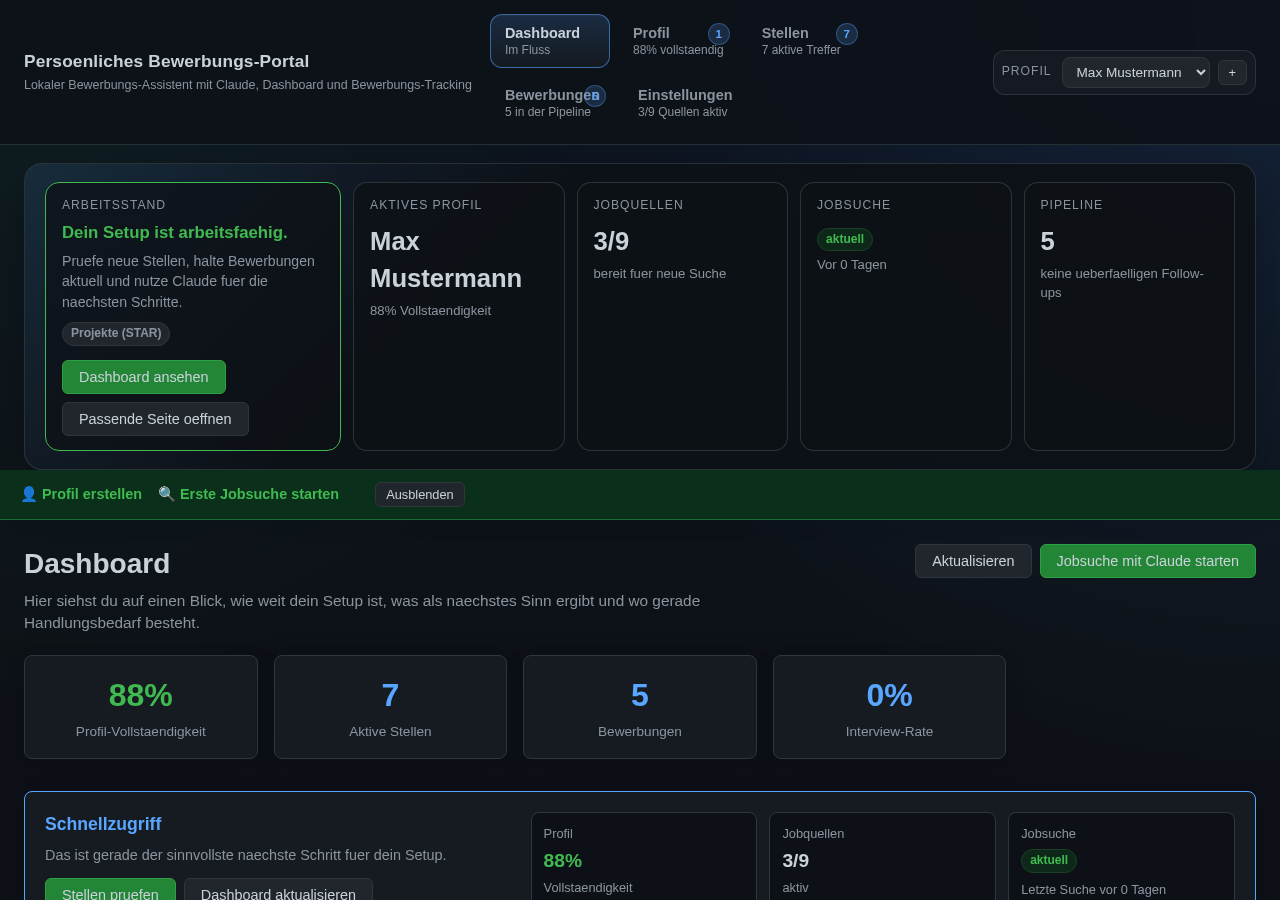
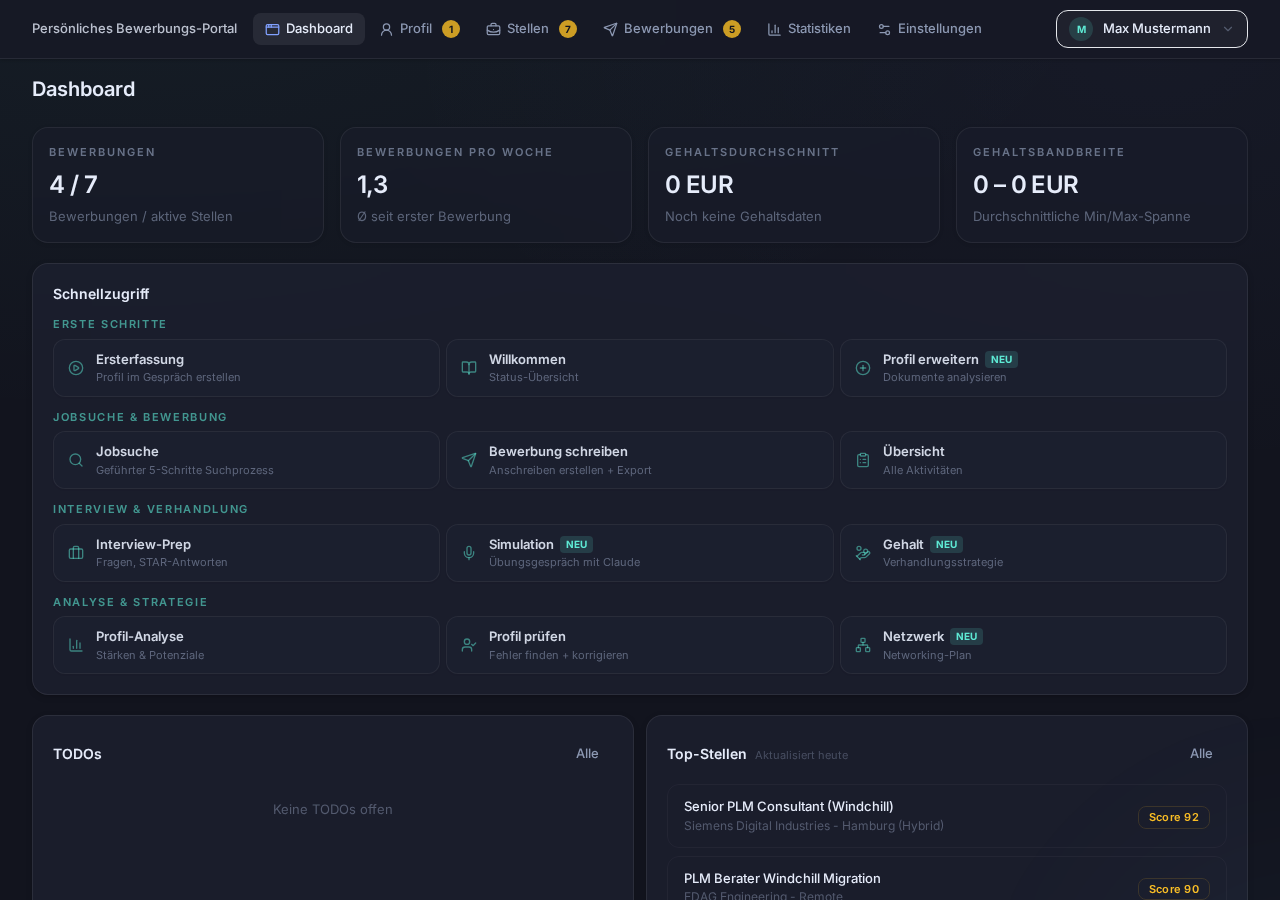
feat: v0.23.0 — Screenshots, Schema v11, Bugfixes
- Alle 6 Screenshots neu generiert mit Koala280s React-Frontend
  (Dashboard, Profil, Stellen, Bewerbungen, Statistiken, Einstellungen)
- Screenshot-Generator fuer React-Frontend angepasst (Hash-Navigation)
- DB Schema v11: profile_id auf search_criteria + blacklist (Profil-Isolation)
- delete_profile() bereinigt jetzt search_criteria/blacklist + korrekter Return
- README: Screenshot-Sektion aktualisiert (6 Tabs, Koala280 Credit)
- Tests: Schema-Version 11, Migration v9->v11 korrigiert
  Ergebnis: 248 passed (vorher 239), 9 pre-existing failures

diff --git a/src/bewerbungs_assistent/database.py b/src/bewerbungs_assistent/database.py
@@ -17,7 +17,7 @@ import logging
 
 logger = logging.getLogger("bewerbungs_assistent.database")
 
-SCHEMA_VERSION = 10
+SCHEMA_VERSION = 11
 
 
 def _gen_id() -> str:
@@ -369,6 +369,24 @@ class Database:
             )
             logger.info("Migration v9->v10: is_pinned on jobs + abgelaufen status")
 
+        if from_ver < 11:
+            # v11: profile_id on search_criteria and blacklist for profile isolation
+            for col_add in [
+                ("search_criteria", "profile_id TEXT NOT NULL DEFAULT ''"),
+                ("blacklist", "profile_id TEXT NOT NULL DEFAULT ''"),
+            ]:
+                try:
+                    conn.execute(f"ALTER TABLE {col_add[0]} ADD COLUMN {col_add[1]}")
+                except Exception:
+                    pass  # Already exists
+            # Backfill: assign existing data to active profile
+            active = conn.execute("SELECT id FROM profile WHERE is_active=1 LIMIT 1").fetchone()
+            if active:
+                pid = active["id"]
+                conn.execute("UPDATE search_criteria SET profile_id=? WHERE profile_id=''", (pid,))
+                conn.execute("UPDATE blacklist SET profile_id=? WHERE profile_id=''", (pid,))
+            logger.info("Migration v10->v11: profile_id on search_criteria + blacklist")
+
         conn.execute(
             "UPDATE settings SET value=? WHERE key='schema_version'",
             (str(to_ver),)
@@ -468,12 +486,18 @@ class Database:
                            "applications", "jobs", "suggested_job_titles"]:
                 conn.execute(f"DELETE FROM {table} WHERE profile_id=?", (profile_id,))
 
+            # Delete search_criteria and blacklist for this profile
+            conn.execute("DELETE FROM search_criteria WHERE profile_id=?", (profile_id,))
+            conn.execute("DELETE FROM blacklist WHERE profile_id=?", (profile_id,))
+
             # Delete the profile itself
-            conn.execute("DELETE FROM profile WHERE id=?", (profile_id,))
+            cur = conn.execute("DELETE FROM profile WHERE id=?", (profile_id,))
+            deleted = cur.rowcount > 0
             conn.commit()
         finally:
             conn.execute("PRAGMA foreign_keys=ON")
         logger.info("Profile %s and all related data deleted", profile_id)
+        return deleted
 
     def reset_all_data(self):
         """Delete ALL data — factory reset for testing."""
@@ -2301,18 +2325,21 @@ CREATE TABLE IF NOT EXISTS application_events (
 );
 
 CREATE TABLE IF NOT EXISTS search_criteria (
-    key TEXT PRIMARY KEY,
+    profile_id TEXT NOT NULL DEFAULT '',
+    key TEXT NOT NULL,
     value TEXT,
-    updated_at TEXT
+    updated_at TEXT,
+    PRIMARY KEY (profile_id, key)
 );
 
 CREATE TABLE IF NOT EXISTS blacklist (
     id INTEGER PRIMARY KEY AUTOINCREMENT,
+    profile_id TEXT NOT NULL DEFAULT '',
     type TEXT NOT NULL,
     value TEXT NOT NULL,
     reason TEXT,
     created_at TEXT,
-    UNIQUE(type, value)
+    UNIQUE(profile_id, type, value)
 );
 
 CREATE TABLE IF NOT EXISTS background_jobs (

diff --git a/docs/screenshots/generate_screenshots.py b/docs/screenshots/generate_screenshots.py
@@ -270,29 +270,42 @@ def _take_screenshots(port: int, output_dir: Path):
         browser = p.chromium.launch(headless=True)
         page = browser.new_page(viewport={"width": 1280, "height": 900})
 
-        # Tab-Mapping: (tab_id, filename, description)
+        # Tab-Mapping: (hash_id, filename, description)
+        # React-Frontend nutzt Hash-Navigation: /#dashboard, /#profil, etc.
         tabs = [
-            (None, "01_dashboard.png", "Dashboard-Uebersicht"),
+            ("dashboard", "01_dashboard.png", "Dashboard-Uebersicht"),
             ("profil", "02_profil.png", "Profil-Tab"),
             ("stellen", "03_stellen.png", "Stellen-Tab"),
             ("bewerbungen", "04_bewerbungen.png", "Bewerbungen-Tab"),
-            ("einstellungen", "05_einstellungen.png", "Einstellungen-Tab"),
+            ("statistiken", "05_statistiken.png", "Statistiken-Tab"),
+            ("einstellungen", "06_einstellungen.png", "Einstellungen-Tab"),
         ]
 
-        for tab_id, filename, desc in tabs:
-            url = base if tab_id is None else f"{base}#{tab_id}"
+        for hash_id, filename, desc in tabs:
+            url = f"{base}#{hash_id}"
             page.goto(url)
             page.wait_for_load_state("networkidle")
-            time.sleep(1)  # Extra wait for JS rendering
+            time.sleep(2)  # Extra wait for React rendering + API calls
 
-            if tab_id:
-                # Click tab to trigger JS navigation
+            # Dismiss any error toasts before capturing
+            for _ in range(5):
+                toast_btn = page.locator("button[aria-label='Close'], [data-dismiss], .toast button, [role='status'] button, button:has(svg)")
                 try:
-                    page.click(f'[data-tab="{tab_id}"]', timeout=3000)
-                    page.wait_for_load_state("networkidle")
-                    time.sleep(0.5)
+                    # Try clicking close buttons on toast notifications
+                    close_btns = page.locator("[class*='toast'] button, [class*='Toast'] button, [role='alert'] button")
+                    if close_btns.count() > 0:
+                        for i in range(close_btns.count()):
+                            close_btns.nth(i).click(timeout=500)
+                        time.sleep(0.3)
                 except Exception:
                     pass
+
+            # Also try to remove toasts via JS
+            page.evaluate("""
+                document.querySelectorAll('[class*="toast"], [class*="Toast"], [role="alert"], [role="status"]')
+                    .forEach(el => el.remove());
+            """)
+            time.sleep(0.3)
 
             path = output_dir / filename
             page.screenshot(path=str(path), full_page=False)

diff --git a/tests/test_v020.py b/tests/test_v020.py
@@ -273,6 +273,12 @@ class TestMigrationV10:
                 VALUES ('manual1', 'Manual Job', 'ManCo', 'manuell', 99, 1);
             INSERT INTO jobs (hash, title, company, source, score, is_active)
                 VALUES ('regular1', 'Regular Job', 'RegCo', 'stepstone', 8, 1);
+            CREATE TABLE profile (id TEXT PRIMARY KEY, name TEXT, is_active INTEGER DEFAULT 0,
+                created_at TEXT, updated_at TEXT);
+            CREATE TABLE search_criteria (key TEXT PRIMARY KEY, value TEXT, updated_at TEXT);
+            CREATE TABLE blacklist (id INTEGER PRIMARY KEY AUTOINCREMENT,
+                type TEXT NOT NULL, value TEXT NOT NULL, reason TEXT,
+                created_at TEXT, UNIQUE(type, value));
         """)
         conn.commit()
         conn.close()
@@ -281,11 +287,11 @@ class TestMigrationV10:
         db = Database(db_path=db_path)
         conn = db.connect()
         conn.execute("PRAGMA foreign_keys=ON")
-        db._migrate(9, 10)
+        db._migrate(9, 11)
 
         # Check migration results
         ver = conn.execute("SELECT value FROM settings WHERE key='schema_version'").fetchone()
-        assert ver["value"] == "10"
+        assert ver["value"] == "11"
 
         manual = conn.execute("SELECT is_pinned, score FROM jobs WHERE hash='manual1'").fetchone()
         assert manual["is_pinned"] == 1

diff --git a/tests/test_v010.py b/tests/test_v010.py
@@ -8,9 +8,9 @@ from bewerbungs_assistent.job_scraper import extract_salary_from_text, estimate_
 # === Schema v9 ===
 
 class TestSchemaV9:
-    def test_schema_version_is_10(self, tmp_db):
-        """Schema version should be 10."""
-        assert SCHEMA_VERSION == 10
+    def test_schema_version_is_11(self, tmp_db):
+        """Schema version should be 11."""
+        assert SCHEMA_VERSION == 11
 
     def test_salary_estimated_column(self, tmp_db):
         """jobs table should have salary_estimated column."""

diff --git a/README.md b/README.md
@@ -695,20 +695,25 @@ python -m pytest tests/ -v
 
 ## Screenshots
 
-### Dashboard — Übersicht mit Workspace-Guidance
+> UI-Design von [@Koala280](https://github.com/Koala280) — React 19 + Vite + Tailwind CSS
+
+### Dashboard — Uebersicht mit Workspace-Guidance
 ![Dashboard](docs/screenshots/01_dashboard.png)
 
 ### Profil — Berufserfahrung, Skills, Ausbildung
 ![Profil](docs/screenshots/02_profil.png)
 
-### Stellen — Scoring, Split-View und Fit-Analyse
+### Stellen — Scoring, Filter und Fit-Analyse
 ![Stellen](docs/screenshots/03_stellen.png)
 
-### Bewerbungen — Pipeline mit Timeline
+### Bewerbungen — Pipeline mit Follow-ups
 ![Bewerbungen](docs/screenshots/04_bewerbungen.png)
 
-### Einstellungen — Suchkriterien und Quellen
-![Einstellungen](docs/screenshots/05_einstellungen.png)
+### Statistiken — Charts, Trends und Export
+![Statistiken](docs/screenshots/05_statistiken.png)
+
+### Einstellungen — Quellen und Suchverhalten
+![Einstellungen](docs/screenshots/06_einstellungen.png)
 
 ---
 

diff --git a/CHANGELOG.md b/CHANGELOG.md
@@ -26,6 +26,13 @@ Dashboard durch eine moderne Single-Page-Application.
   Profil-ID waren danach alle Profile inaktiv. Fix: Existenz-Pruefung VOR dem
   Deaktivieren.
 - **Test-Fix**: Versions-Konsistenz korrigiert.
+- **DB Schema v11**: `profile_id` auf `search_criteria` und `blacklist` Tabellen
+  fuer Profil-Isolation. Migration backfilled bestehende Daten automatisch.
+- **delete_profile()** bereinigt jetzt auch `search_criteria` und `blacklist` Daten,
+  und gibt korrekten Return-Wert zurueck (war immer None → 404).
+- **Screenshots aktualisiert**: Alle 6 Tabs mit neuem React-Design (Dashboard,
+  Profil, Stellen, Bewerbungen, Statistiken, Einstellungen).
+- **Screenshot-Generator**: Fuer React-Frontend angepasst (Hash-Navigation, Toast-Dismissal).
 
 ## [0.22.0] - 2026-03-17
 
